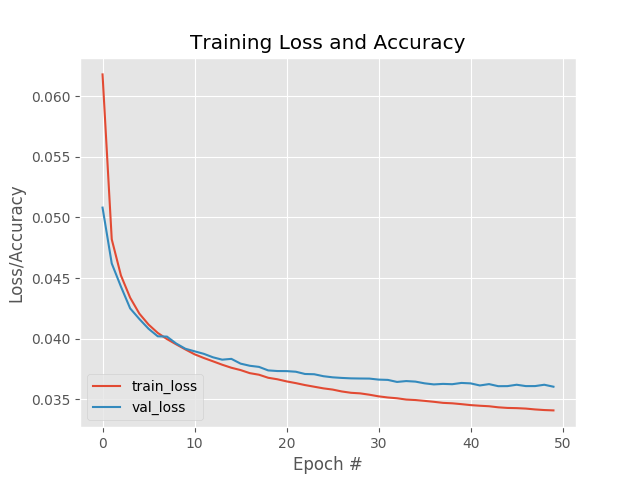
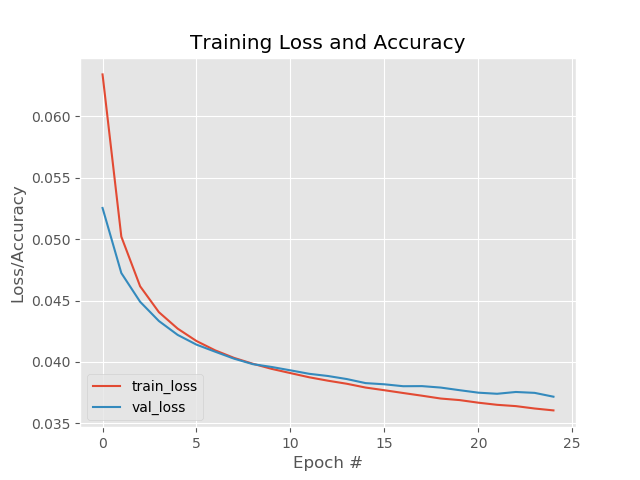
imp 784 - 1000 500 250 2

diff --git a/train_fan_autoencoder.py b/train_fan_autoencoder.py
@@ -8,7 +8,7 @@ from tensorflow.keras.datasets import mnist
 import matplotlib.pyplot as plt
 import numpy as np
 import argparse
-import cv2
+# import cv2
 
 from autoencoder.fan_autoencoder import FanAutoencoder
 
@@ -102,24 +102,47 @@ decoded = autoencoder.predict(testX)
 outputs = None
 
 # loop over our number of output samples
-for i in range(0, args["samples"]):
-	# grab the original image and reconstructed image
-	original = (testX[i] * 255).astype("uint8")
-	recon = (decoded[i] * 255).astype("uint8")
 
-	# stack the original and reconstructed image side-by-side
-	output = np.hstack([original, recon])
 
-	# if the outputs array is empty, initialize it as the current
-	# side-by-side image display
-	if outputs is None:
-		outputs = output
-
-	# otherwise, vertically stack the outputs
-	else:
-		outputs = np.vstack([outputs, output])
+# for i in range(0, args["samples"]):
+# 	# grab the original image and reconstructed image
+# 	original = (testX[i] * 255).astype("uint8")
+# 	recon = (decoded[i] * 255).astype("uint8")
+#
+# 	# stack the original and reconstructed image side-by-side
+# 	output = np.hstack([original, recon])
+#
+# 	# if the outputs array is empty, initialize it as the current
+# 	# side-by-side image display
+# 	if outputs is None:
+# 		outputs = output
+#
+# 	# otherwise, vertically stack the outputs
+# 	else:
+# 		outputs = np.vstack([outputs, output])
 
 # save the outputs image to disk
-cv2.imwrite(args["output"], outputs)
+# cv2.imwrite(args["output"], outputs)
 
+plt.figure(figsize=(20, 4))
+n = args["samples"]
+for i in range(n):
+    # display original
+    ax = plt.subplot(2, n, i + 1)
+    original = (testX[i].reshape(28, 28) * 255).astype("uint8")
+    recon =  (decoded[i].reshape(28, 28) * 255).astype("uint8")
 
+    plt.imshow(original)
+    plt.gray()
+    ax.get_xaxis().set_visible(False)
+    ax.get_yaxis().set_visible(False)
+
+    # display reconstruction
+    ax = plt.subplot(2, n, i + 1 + n)
+    plt.imshow(recon)
+    plt.gray()
+    ax.get_xaxis().set_visible(False)
+    ax.get_yaxis().set_visible(False)
+# if savename:
+#     plt.savefig(savename)
+    plt.savefig(args["output"])

diff --git a/README.md b/README.md
@@ -31,6 +31,9 @@ python train_fan_autoencoder.py  -s 10 -o output/fc_256_128_16.png -p training_p
 python train_fan_autoencoder.py  -s 10 -o output/fc_256_128_2.png -p training_plot/training_fc_256_128_2.png -d 256 128 -c 2 -e 25
 
 
+python train_fan_autoencoder.py  -s 10 -o output/fc_1000_500_250_2.png -p training_plot/training_fc_1000_500_250_2.png -d 1000 500 250 -c 2 -e 25
+
+
 # 参考
 Autoencoders with Keras, TensorFlow, and Deep Learning
 https://www.pyimagesearch.com/2020/02/17/autoencoders-with-keras-tensorflow-and-deep-learning/
